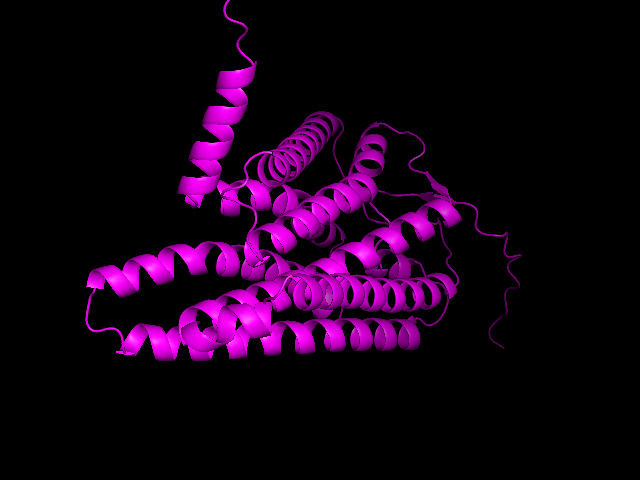
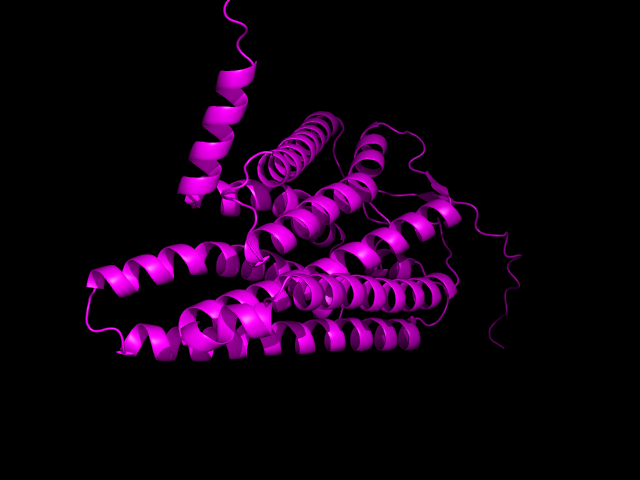
Transparency of sequence

diff --git a/RF/Feature_Importance/Uncategorize.py b/RF/Feature_Importance/Uncategorize.py
@@ -65,6 +65,7 @@ for filename in os.listdir(directory):
         cmd.hide("everything")
         cmd.show("cartoon", name_of_protein)
         cmd.color("magenta", name_of_protein)
+        cmd.set("cartoon_transparency",  "0.75", name_of_protein)
 
         #Select important Amino Acids
         printstatement1 = ""
@@ -119,19 +120,29 @@ for filename in os.listdir(directory):
         
         #Color important Amino Acids
         cmd.select("AA1", printstatement1 + " and " + TM6)
-        cmd.color("red", "AA1")
+        cmd.create("obj1","AA1")
+        cmd.color("red", "obj1")
+        cmd.set("cartoon_transparency",  "0", "obj1")
 
         cmd.select("AA2", printstatement2 + " and " + TM6)
-        cmd.color("orange", "AA2")
+        cmd.create("obj2","AA2")
+        cmd.color("orange", "obj2")
+        cmd.set("cartoon_transparency",  "0", "obj2")
 
         cmd.select("AA3", printstatement3 + " and " + TM7)
-        cmd.color("yellow", "AA3")
+        cmd.create("obj3","AA3")
+        cmd.color("yellow", "obj3")
+        cmd.set("cartoon_transparency",  "0", "obj3")
 
         cmd.select("AA4", printstatement4 + " and " + TM3)
-        cmd.color("green", "AA4")
+        cmd.create("obj4","AA4")
+        cmd.color("green", "obj4")
+        cmd.set("cartoon_transparency",  "0", "obj4")
 
         cmd.select("AA5", printstatement5 + " and " + TM5)
-        cmd.color("blue", "AA5")
+        cmd.create("obj5","AA5")
+        cmd.color("blue", "obj5")
+        cmd.set("cartoon_transparency",  "0", "obj5")
 
         #Save as png
         savelocation = "Images/" + name_of_protein + ".png"
